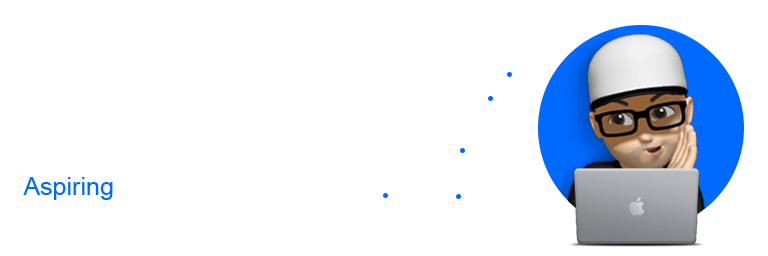
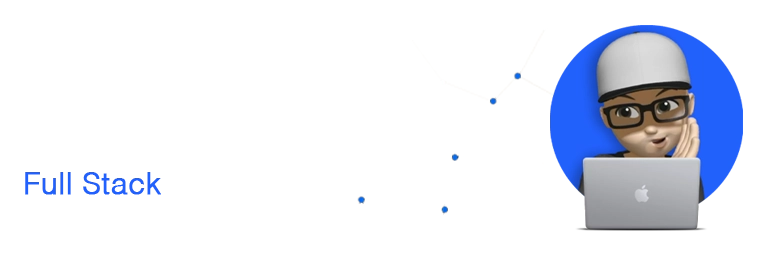
Updating profile README.md file.

diff --git a/README.md b/README.md
@@ -8,22 +8,17 @@
 
 ## About me
 
-As a new programming enthusiast, I'm eager to be part of a unique challenge!
+After an unconventional and experience-rich career path, I am now fully dedicated to Full Stack development.
 
-My career path is far from conventional...
+Trained at [Holberton School](https://www.holbertonschool.fr/), I leverage my creativity, rigor, and adaptability to build modern, meaningful web solutions.
 
-From my beginnings as a manager in fast food to managing customer service at SFR, then from my role as a technical expert at Apple to coordinating logistics operations at Tesla, I have consistently taken on new challenges and evolved in dynamic environments.
+I have relearned how to learn, this is the key takeaway I retain from the [methodology](https://www.holbertonschool.fr/methodologie) used throughout my training.
 
-It's time for me to take a leap of faith and write a new chapter.
-Becoming a software engineer 😉.
+Three intensive years, including an internship followed by two years of work-study, have allowed me to acquire solid technical foundations and genuine autonomy.
 
-Thanks to [Holberton School](https://www.holbertonschool.com/), I have built a solid foundation during my first year of learning the fundamentals of development.
+My previous professional background has also given me essential human skills: active listening, teamwork, high standards of quality, and strong attention to detail.
 
-Now, I am specializing as a Full-Stack Developer until July 2026, while working at Holberton School as an educational manager in software development.
-
-My unique path underlines my determination to push boundaries and explore new horizons.
-
-Let's talk how I can bring my experience and passion to your projects!
+My objective is to join, starting in July 2026, a team where intellectual challenge and the creation of useful solutions go hand in hand with strong human values.
 
 ## Tech stack
 
@@ -46,11 +41,15 @@ Let's talk how I can bring my experience and passion to your projects!
 ![REACT badge](https://img.shields.io/badge/REACT-61dafb?logo=react&logoColor=black&style=for-the-badge)
 ![Bootstrap badge](https://img.shields.io/badge/BOOTSTRAP-7952b3?logo=bootstrap&logoColor=white&style=for-the-badge)
 ![TailwindCSS badge](https://img.shields.io/badge/TAILWINDCSS-06b6d4?logo=tailwindcss&logoColor=white&style=for-the-badge)
-![Git badge](https://img.shields.io/badge/GIT-f05032?logo=git&logoColor=white&style=for-the-badge)
-![GitHub badge](https://img.shields.io/badge/GITHUB-181717?logo=github&logoColor=white&style=for-the-badge)
+![Dart badge](https://img.shields.io/badge/Dart-0175c2?logo=dart&logoColor=white&style=for-the-badge)
+![Flutter badge](https://img.shields.io/badge/Flutter-02569b?logo=flutter&logoColor=white&style=for-the-badge)
+![Swift badge](https://img.shields.io/badge/SWIFT-f05138?logo=swift&logoColor=white&style=for-the-badge)
 ![MySQL badge](https://img.shields.io/badge/MYSQL-4479a1?logo=mysql&logoColor=white&style=for-the-badge)
 ![PostgreSQL badge](https://img.shields.io/badge/POSTGRESQL-4169e1?logo=postgresql&logoColor=white&style=for-the-badge)
 ![Docker badge](https://img.shields.io/badge/DOCKER-2496ed?logo=docker&logoColor=white&style=for-the-badge)
+
+![Git badge](https://img.shields.io/badge/GIT-f05032?logo=git&logoColor=white&style=for-the-badge)
+![GitHub badge](https://img.shields.io/badge/GITHUB-181717?logo=github&logoColor=white&style=for-the-badge)
 
 ## Statistics
 

diff --git a/template-README.md b/template-README.md
@@ -44,8 +44,10 @@ The project description.
 ![REACT badge](https://img.shields.io/badge/REACT-61dafb?logo=react&logoColor=black&style=for-the-badge)
 ![Roblox badge](https://img.shields.io/badge/ROBLOX-000000?logo=roblox&logoColor=white&style=for-the-badge)
 ![Roblox Studio badge](https://img.shields.io/badge/ROBLOX&nbsp;STUDIO-00a2ff?logo=robloxstudio&logoColor=white&style=for-the-badge)
-![Supabase badge](https://img.shields.io/badge/Supabase-3fcf8e?logo=supabase&logoColor=white&style=for-the-badge)
-![TailwindCSS badge](https://img.shields.io/badge/TAILWINDCSS-06b6d4?logo=tailwindcss&logoColor=white&style=for-the-badge)
+![Supabase badge](https://img.shields.io/badge/SUPABASE-3fcf8e?logo=supabase&logoColor=white&style=for-the-badge)
+![Swift badge](https://img.shields.io/badge/SWIFT-f05138?logo=swift&logoColor=white&style=for-the-badge)
+![Tailwind CSS badge](https://img.shields.io/badge/TAILWIND&nbsp;CSS-06b6d4?logo=tailwindcss&logoColor=white&style=for-the-badge)
+![Three.js badge](https://img.shields.io/badge/THREE.JS-000000?logo=threedotjs&logoColor=white&style=for-the-badge)
 ![TypeScript badge](https://img.shields.io/badge/TYPESCRIPT-3178c6?logo=typescript&logoColor=white&style=for-the-badge)
 ![Ubuntu badge](https://img.shields.io/badge/UBUNTU-e95420?logo=ubuntu&logoColor=white&style=for-the-badge)
 ![Unity badge](https://img.shields.io/badge/UNITY-000000?logo=unity&logoColor=white&style=for-the-badge)
